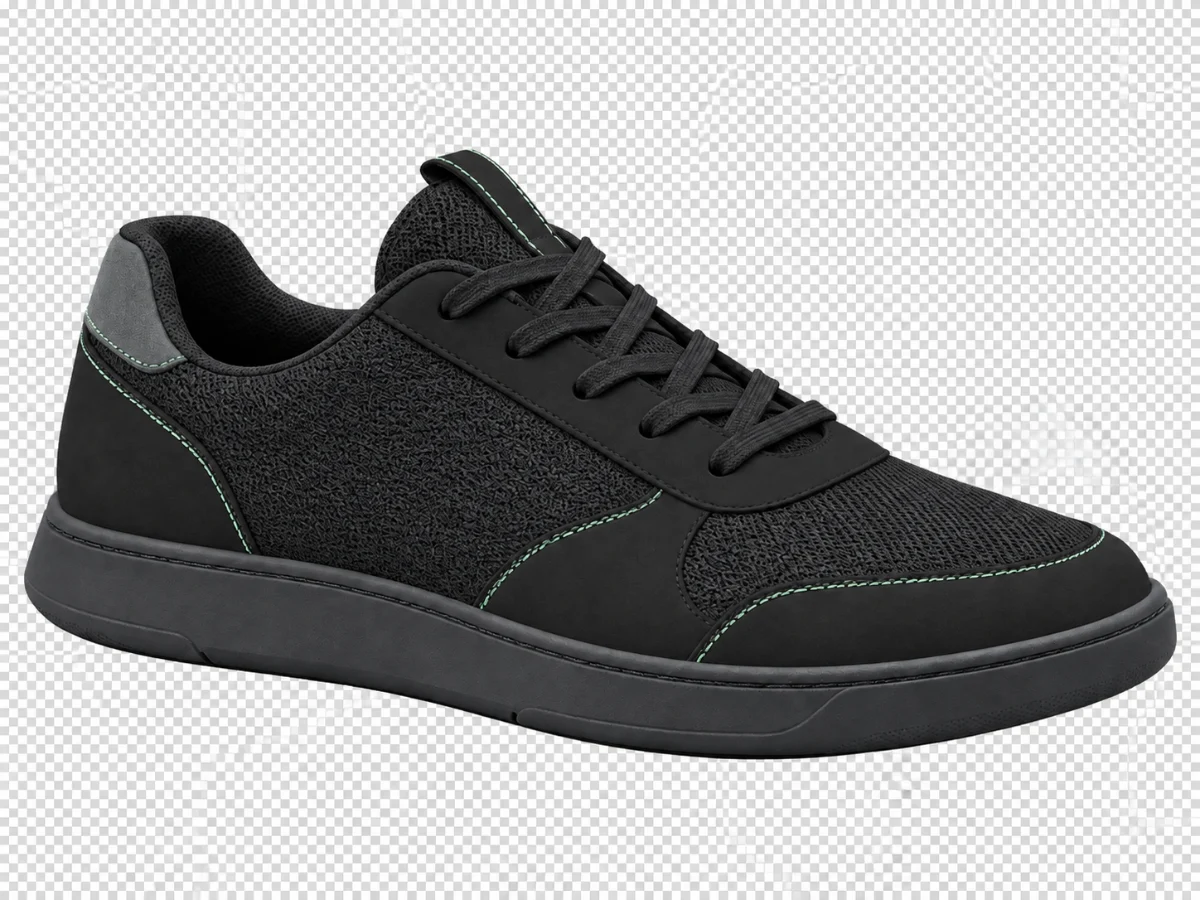
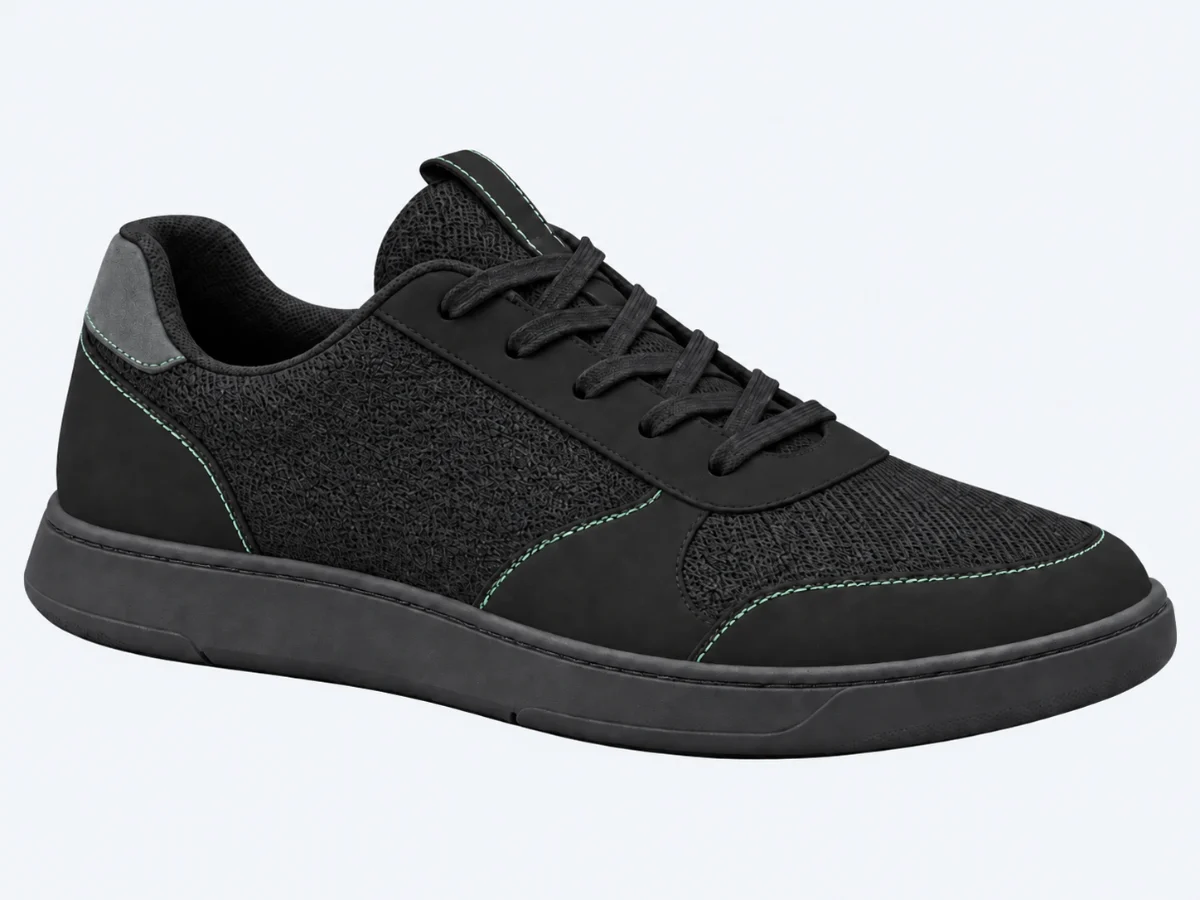
fix: remove checkerboard artifacts from existing colorway media

diff --git a/docs/UX_POLISH_2026-09-23.md b/docs/UX_POLISH_2026-09-23.md
@@ -41,6 +41,17 @@ The current V3 work preserves those changes and addresses the supplied A–F bri
   email, payment, database reset, migration or new infrastructure is involved.
 - Public `/build-info.json` records the source commit used by the prebuilt Vercel
   release. This permits checking that GitHub and the published build match.
+- V3 production acceptance on `https://solecraft-two.vercel.app`: 14/14 passed,
+  covering all 32 models/64 colorways, independent price bounds, wishlist counts,
+  RU/EN responsive routes and mobile/desktop guest checkout up to final review.
+  Source commit `769aa4c` was verified through the public build marker. No new
+  production order was submitted. Local success/receipt/reload evidence remains
+  separate from the production review screenshots.
+- Additional visual inspection found baked checkerboard backgrounds in four
+  September 18 alternates: 01-black, 02-black, 04-white and 06-navy. Background-only
+  ImageGen edits replace those artifacts with opaque Cold Paper. All four were
+  inspected against their originals and exported at both existing responsive
+  sizes; no identity, inventory, catalog schema or production data changed.
 
 ### Current product → image → color → description → size correspondence
 
@@ -50,18 +61,18 @@ Files live in `public/media/products/`; the alternate suffix applies to the seco
 color. Full per-variant browser evidence, including a selected sellable SKU, is
 written to `catalog-correspondence.json` by the integrity test.
 
-| Models sharing the disclosed design | Base image | Alternate suffix | Colors |
-| --- | --- | --- | --- |
-| Signal 01, Shift, River, Tram | solecraft-01.webp | -black | White / Black |
-| Metro, Pulse, Shelter, Outline | solecraft-02.webp | -black | White / Black |
-| Route, North 03, Cross | solecraft-03.webp | -blue | Graphite / Blue |
-| Rain 2, Frame, Flow | solecraft-04.webp | -white | Graphite / White |
-| Block, Cloud, Vector | solecraft-05.webp | -burgundy | Graphite / Burgundy |
-| Tempo, Asphalt, Balance | solecraft-06.webp | -navy | Mint / Navy |
-| Line 02, Daylight, Step | solecraft-07.webp | -black | Navy / Black |
-| Office One, Sprint Lite, Rainline | solecraft-08.webp | -mint | White / Mint |
-| Airwalk, Axis, Pace | solecraft-09.webp | -white | Blue / White |
-| Guard, Softdesk, Move | solecraft-10.webp | -black | Burgundy / Black |
+| Models sharing the disclosed design | Base image        | Alternate suffix | Colors              |
+| ----------------------------------- | ----------------- | ---------------- | ------------------- |
+| Signal 01, Shift, River, Tram       | solecraft-01.webp | -black           | White / Black       |
+| Metro, Pulse, Shelter, Outline      | solecraft-02.webp | -black           | White / Black       |
+| Route, North 03, Cross              | solecraft-03.webp | -blue            | Graphite / Blue     |
+| Rain 2, Frame, Flow                 | solecraft-04.webp | -white           | Graphite / White    |
+| Block, Cloud, Vector                | solecraft-05.webp | -burgundy        | Graphite / Burgundy |
+| Tempo, Asphalt, Balance             | solecraft-06.webp | -navy            | Mint / Navy         |
+| Line 02, Daylight, Step             | solecraft-07.webp | -black           | Navy / Black        |
+| Office One, Sprint Lite, Rainline   | solecraft-08.webp | -mint            | White / Mint        |
+| Airwalk, Axis, Pace                 | solecraft-09.webp | -white           | Blue / White        |
+| Guard, Softdesk, Move               | solecraft-10.webp | -black           | Burgundy / Black    |
 
 Native NVDA/Firefox and Android TalkBack/Chrome remain unverified. Browser engines,
 axe and viewport emulation are not represented as real-device assistive testing.

diff --git a/content/media-sources.md b/content/media-sources.md
@@ -61,6 +61,17 @@ The demo still has 32 named products built from 10 reusable fictional silhouette
 This update fixes color preview identity, not a claim of 32 independently sourced
 physical shoe designs. See the current UX audit for remaining editorial limitations.
 
+## Background cleanup — 2026-09-28
+
+Visual V3 inspection found baked checkerboards in `solecraft-01-black`,
+`solecraft-02-black`, `solecraft-04-white` and `solecraft-06-navy`. Built-in
+ImageGen edited each existing fictional source, with instructions to replace
+only the checkerboard background and preserve shoe color, silhouette, panels,
+laces, sole and camera. Reviewed outputs use opaque Cold Paper `#F3F6FA`, not
+alpha transparency. The existing canvas conversion script exported 1200×900
+and 600×450 WebP. No external photography or additional service was introduced.
+The other September 18 variants, 03-blue and 05-burgundy, retain transparency.
+
 ## Replaced legacy media
 
 The original training storefront's low-resolution raster assets had unverified public
